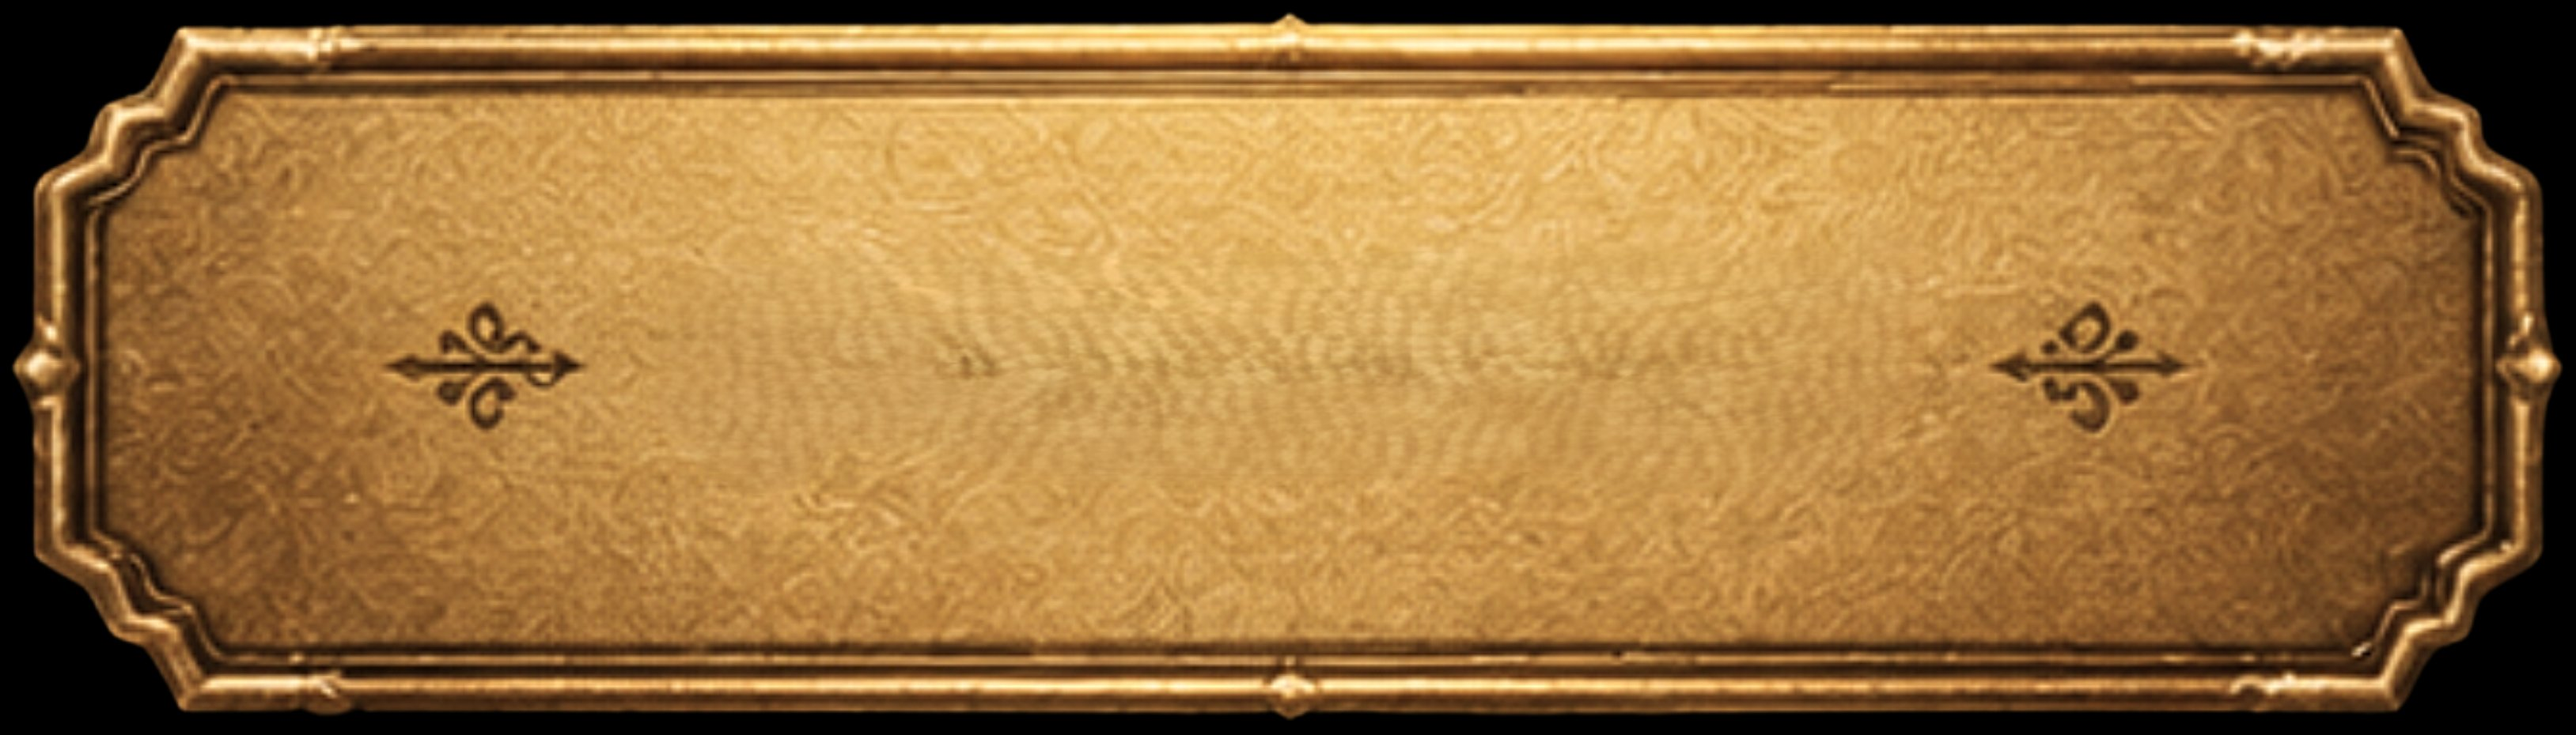
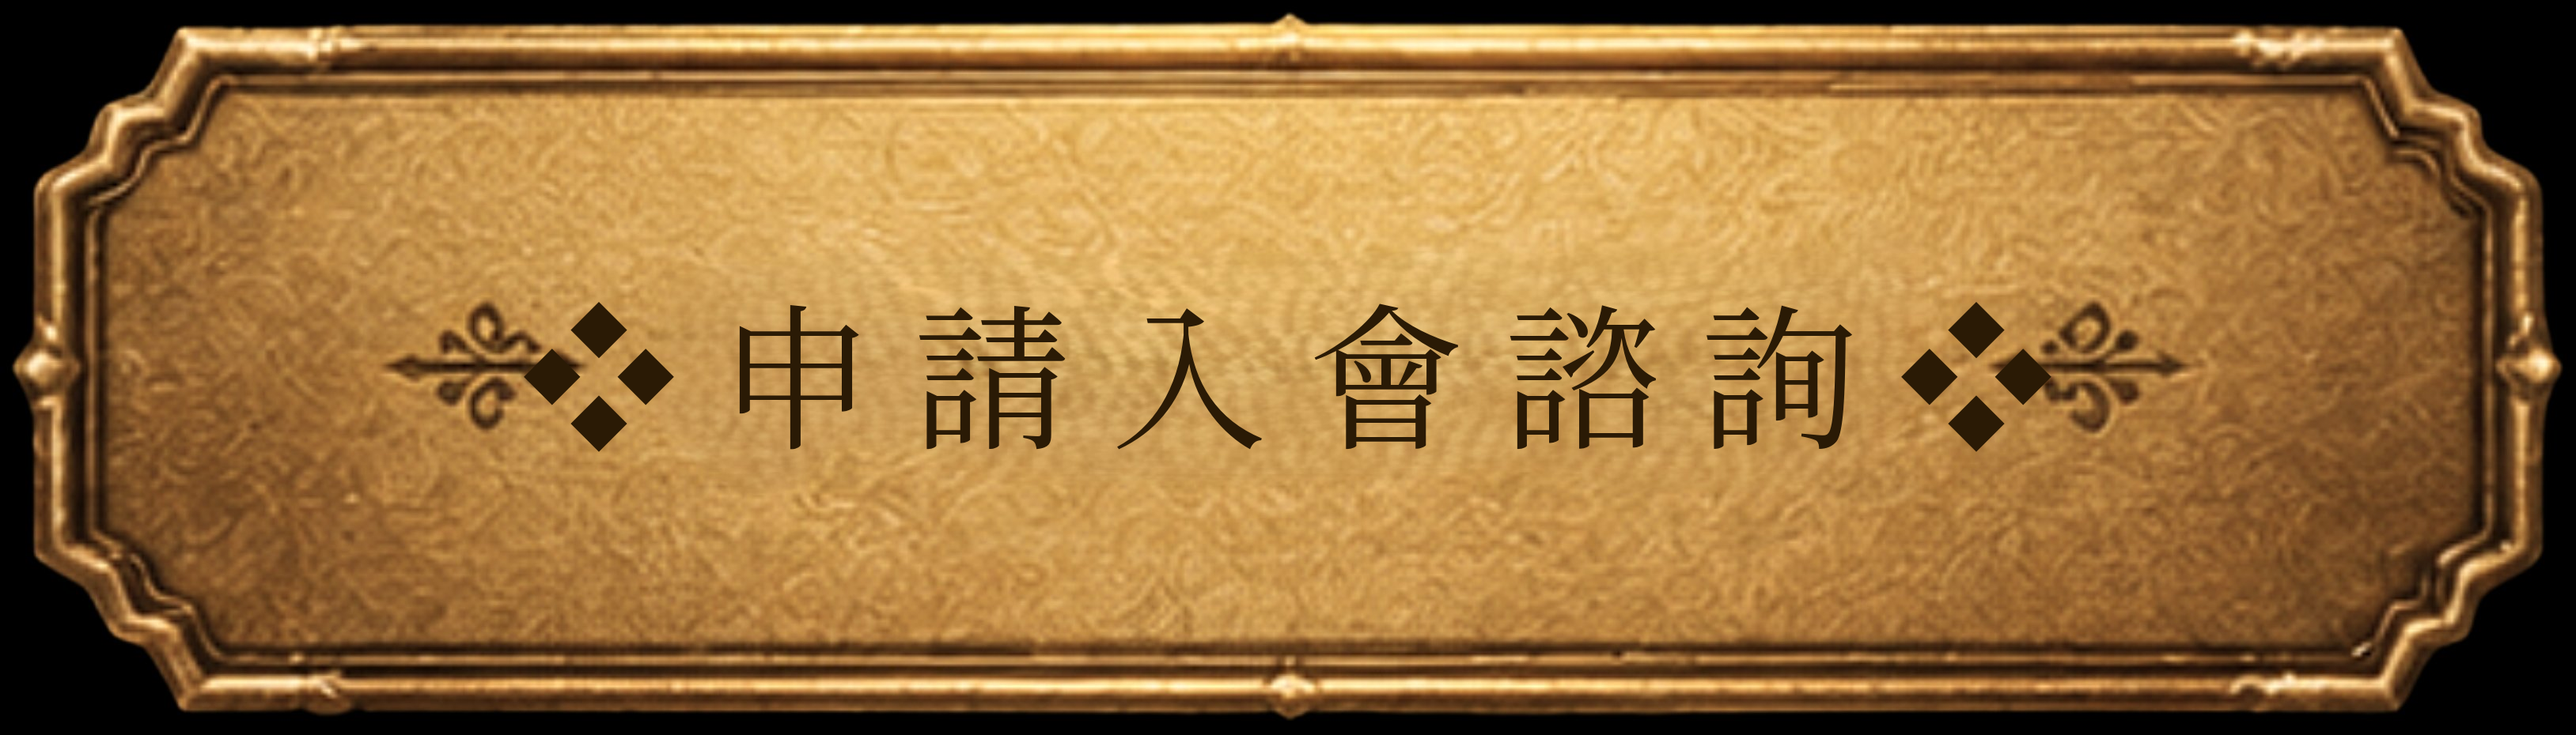
fix: composite text into gcsda_003, remove CSS overlay

Changed region(s): [[0.1861, 0.4054, 0.5584, 0.6237], [0.5894, 0.4054, 0.8065, 0.6237]]

diff --git a/src/pages/GCSDA.tsx b/src/pages/GCSDA.tsx
@@ -1,4 +1,4 @@
-import { motion } from "motion/react";
+import { motion } from "motion/react";
 import { useState, useRef } from "react";
 import { Landmark, Users, Scroll } from "lucide-react";
 import { Accordion, AccordionContent, AccordionItem, AccordionTrigger } from "@/components/ui/accordion";
@@ -172,7 +172,7 @@ export default function GCSDA({ onContactOpen }: GCSDAPProps) {
                 <div style={{
                   position: "absolute", top: "50%", left: "50%",
                   transform: "translate(-50%, -55%)",
-                  pointerEvents: "none", width: "70%",
+                  pointerEvents: "none", width: "65%",
                 }}>
                   <span style={{
                     color: "#2a1a05",
@@ -335,12 +335,12 @@ export default function GCSDA({ onContactOpen }: GCSDAPProps) {
               <img src="/images/gcsda_002.png" alt="加入治理生態圈" style={{ width: "100%", height: "auto", display: "block" }} />
             </div>
 
-            {/* 小金框按鈕 - 申請入會諮詢 */}
+            {/* 小金框按鈕 - 申請入會諮詢（文字已合成進圖片） */}
             <a
               href="https://line.me/R/ti/p/@387nbnjs"
               target="_blank"
               rel="noopener noreferrer"
-              style={{ textDecoration: "none", display: "inline-block", position: "relative", maxWidth: "460px", width: "52%" }}
+              style={{ textDecoration: "none", display: "inline-block", width: "min(80%, 460px)" }}
             >
               <img
                 src="/images/gcsda_003.png"
@@ -349,18 +349,6 @@ export default function GCSDA({ onContactOpen }: GCSDAPProps) {
                 onMouseEnter={e => { (e.currentTarget as HTMLImageElement).style.opacity = "0.82"; }}
                 onMouseLeave={e => { (e.currentTarget as HTMLImageElement).style.opacity = "1"; }}
               />
-              <div style={{
-                position: "absolute", top: "50%", left: "50%",
-                transform: "translate(-50%, -50%)", pointerEvents: "none",
-              }}>
-                <span style={{
-                  color: "#2a1a05", fontSize: "clamp(13px, 1.5vw, 20px)",
-                  fontFamily: "serif", fontWeight: 700, letterSpacing: "0.25em",
-                  whiteSpace: "nowrap", textShadow: "0 1px 2px rgba(0,0,0,0.2)",
-                }}>
-                  ❖ 申 請 入 會 諮 詢 ❖
-                </span>
-              </div>
             </a>
 
           </div>
@@ -418,7 +406,7 @@ export default function GCSDA({ onContactOpen }: GCSDAPProps) {
                 <button
                   onClick={handleSubmit}
                   disabled={sending}
-                  style={{ width: "100%", padding: "14px", background: "#C9A84C", color: "#0a0a0a", fontFamily: "serif", fontWeight: 700, fontSize: "14px", letterSpacing: "0.25em", border: "none", cursor: "pointer" }}
+                  style={{ width: "100%", padding: "14px", background: "#C9A84C", color: "#0a0a0a", fontFamily: "serif", fontWeight: 700, fontSize: "14px", letterSpacing: "0.4em", border: "none", cursor: "pointer" }}
                 >
                   {sending ? "傳送中..." : "送 出 申 請"}
                 </button>
